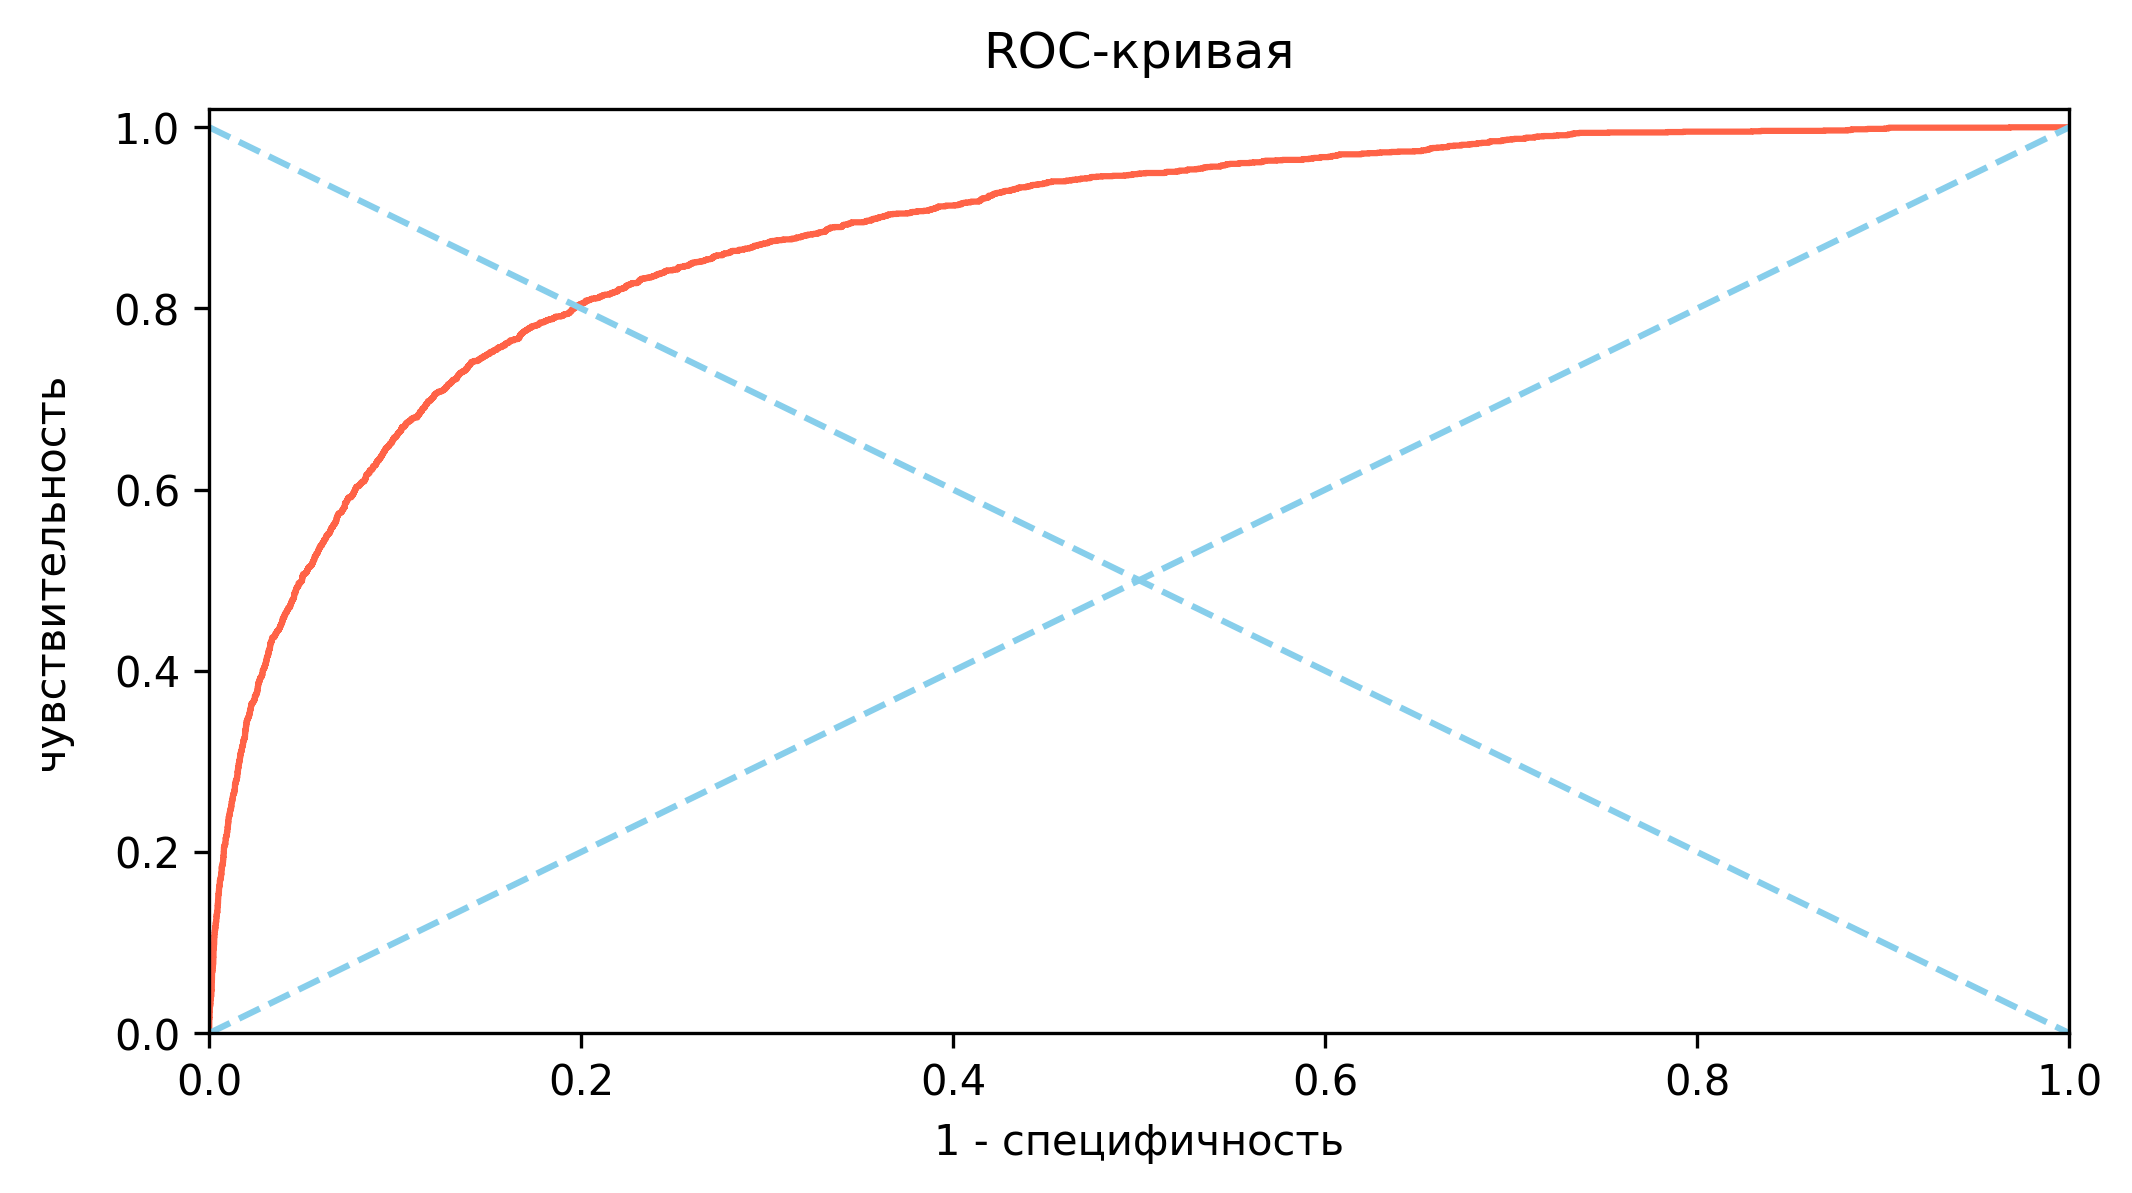
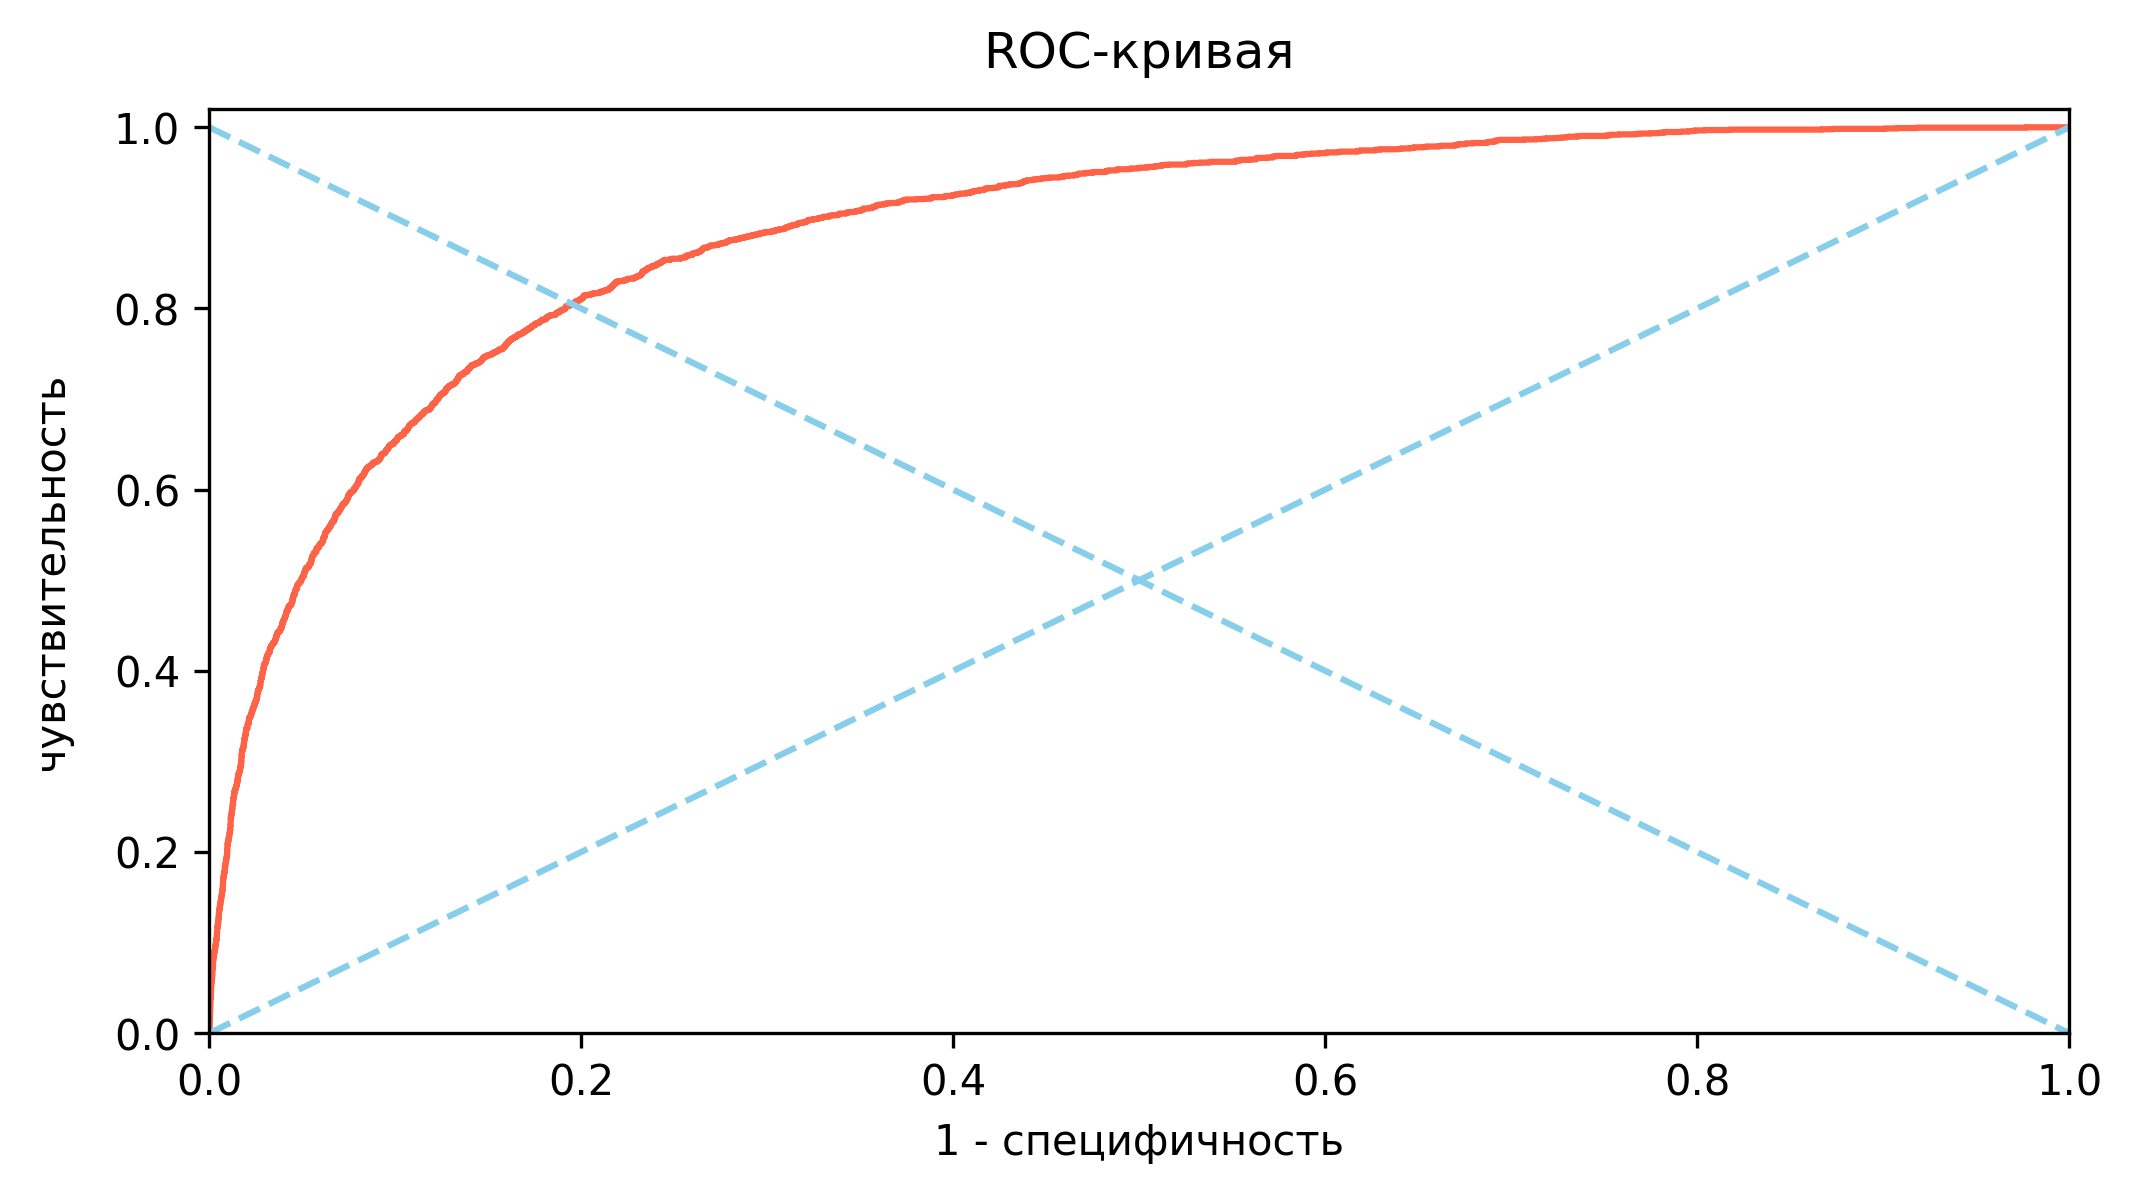
MCH, MCHC, HCT, CP parameters are calculated

diff --git a/train.py b/train.py
@@ -3,19 +3,19 @@ import os
 os.environ["CUDA_VISIBLE_DEVICES"] = "-1"
 
 import pandas as pd
-from keras.utils import set_random_seed
+from keras.api.utils import set_random_seed
 import json
 import random
 from utils.plots import *
 from utils.models import *
 from utils.processing import *
 
-repeats = 1  # кол-во повторений обучения
+repeats = 3  # кол-во повторений обучения
 # Установим seed для воспроизводимости результатов:
 seeds = [random.randint(0, 2**32 - 1) for _ in range(repeats)]
 
 # Прочитаем данные:
-df = pd.read_csv("./data/ferritin-all.csv", sep=",", dtype={"hgb": float})
+df = pd.read_csv("./data/ferritin-all-calc.csv", sep=",", dtype={"hgb": float})
 print(df.head())
 print(df.shape)
 print(df.dtypes)
@@ -32,7 +32,7 @@ for i in range(repeats):
     class_weight, x_train, y_train, x_test, y_test, pos, neg = preparate_data(
         df, n_features, targets, scale=True, encode=False, seed=None
     )
-    model = create_model(hidden_units, class_weight, pos, neg)
+    model = create_model(n_features, hidden_units, class_weight, pos, neg)
     history_data = train_model(
         model,
         x_train,
@@ -75,7 +75,7 @@ for key in list_statistics[0].keys():
     avg_statistics[f"list_{key}"] = results
 
 with open(
-    f"./output/base_model/res-all_data-{hidden_units}-units.json",
+    f"./output/base_model/res-calc_data-{hidden_units}-units.json",
     "w",
 ) as file:
     json.dump(avg_statistics, file, ensure_ascii=False, indent=4)

diff --git a/utils/models.py b/utils/models.py
@@ -4,7 +4,7 @@ import sys
 import numpy as np
 from sklearn.metrics import roc_curve, auc
 import keras
-from keras.layers import (
+from keras.api.layers import (
     Input,
     Dense,
     Dropout,
@@ -14,9 +14,9 @@ from keras.layers import (
     LayerNormalization,
     Activation,
 )
-from keras.models import Model
-from keras.initializers import Constant
-from keras.utils import plot_model
+from keras.api.models import Model
+from keras.api.initializers import Constant
+from keras.api.utils import plot_model
 
 # Добавляем корневую папку utils в sys.path:
 sys.path.append(os.path.abspath(os.path.join(os.path.dirname(__file__), "..")))
@@ -30,14 +30,14 @@ from package.embeddings import *
 from package.ensembles import *
 from utils.losses import *
 import tensorflow as tf
-import keras.backend as K
+import keras.api.backend as K
 from keras import backend as K
 
 
-def create_model(hidden_units, class_weight, pos, neg) -> Model:
+def create_model(n_features, hidden_units, class_weight, pos, neg) -> Model:
     out_bias_init = Constant(value=np.log(pos / neg))
 
-    input = Input(shape=(12,))
+    input = Input(shape=(n_features,))
     x = Dense(units=hidden_units, activation="relu")(input)
     output = Dense(units=1, activation="sigmoid")(x)
 

diff --git a/adding_new_features.py b/adding_new_features.py
@@ -1,0 +1,25 @@
+import numpy as np
+import pandas as pd
+
+df = pd.read_csv(
+    "./data/ferritin-all.csv", sep=",", dtype={"sampleno": str, "hgb": float}
+)
+print(df.shape)
+print(df)
+
+hgb, rbc = df["hgb"], df["rbc"]
+df["mch"] = round(hgb / rbc, 2)
+
+mcv = df["mcv"]
+df["hct"] = round(mcv * rbc / 10, 2)
+df["mchc"] = round(hgb * 10 / df["hct"], 2)
+df["cp"] = round(hgb * 3.0 / (rbc * 100.0), 2)
+print(df.shape)
+print(df)
+
+df_cleaned = df.replace([np.inf, -np.inf], np.nan)
+df_cleaned.dropna(inplace=True, ignore_index=True)
+print(df_cleaned.shape)
+print(df_cleaned)
+
+df_cleaned.to_csv("./data/ferritin-all-calc.csv", sep=",", index=False)
